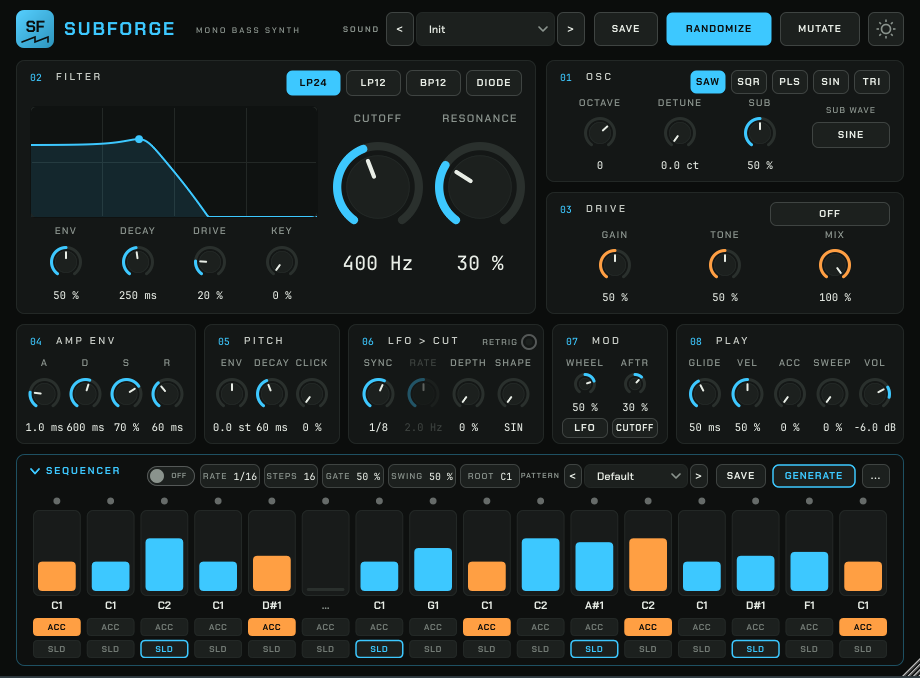
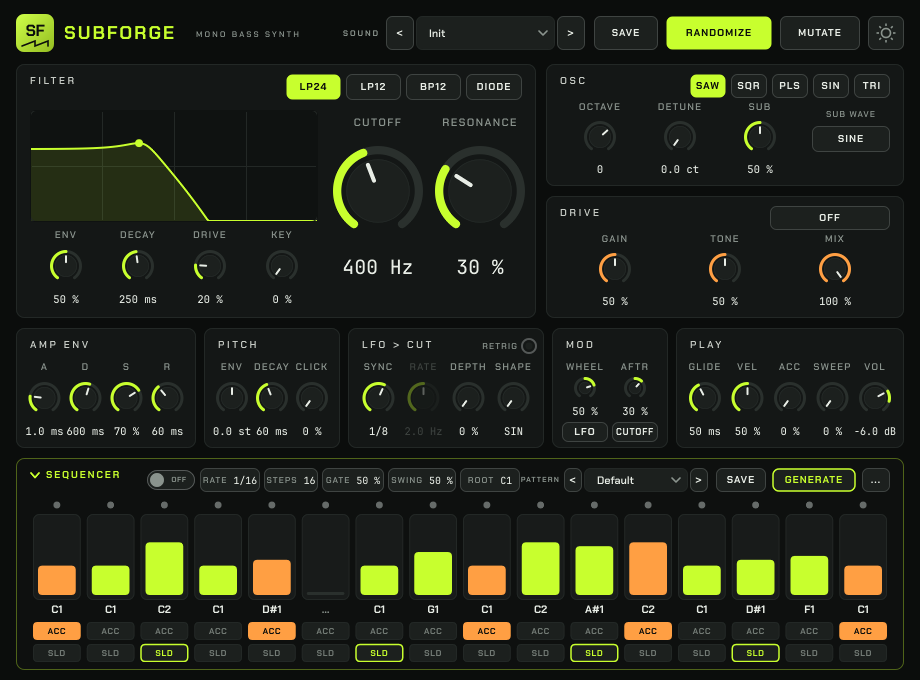
Update the README screenshot and add a tool to render it
The old screenshot had the section numbers and the blue accent. The new
one is rendered by SubForge_Screenshot (built only on request), which
draws the interface with the default sound, pattern and Lime accent
regardless of the user's settings, so it can be redone after UI changes.

diff --git a/tools/screenshot.cpp b/tools/screenshot.cpp
@@ -1,0 +1,40 @@
+// Copyright (C) 2026 Henrik Juhl. Part of SubForge, licensed under the GNU AGPLv3 (see LICENSE).
+// SPDX-License-Identifier: AGPL-3.0-only
+
+// Renders the interface with the default sound, pattern and accent colour to a PNG,
+// for the README: SubForge_Screenshot docs/images/screenshot.png [scale]
+// Uses its own look-and-feel, so the user's saved accent colour and UI size are ignored.
+
+#include "MainView.h"
+
+int main (int argc, char* argv[])
+{
+    if (argc < 2)
+    {
+        std::cerr << "usage: SubForge_Screenshot <output.png> [scale]\n";
+        return 1;
+    }
+
+    const juce::ScopedJuceInitialiser_GUI gui;
+    const std::unique_ptr<juce::AudioProcessor> plugin (createPluginFilter());
+    auto& processor = dynamic_cast<SubForgeProcessor&> (*plugin);
+    SubForgeLookAndFeel lookAndFeel;
+    const float scale = argc > 2 ? juce::String (argv[2]).getFloatValue() : 1.0f;
+
+    // sized by itself: with the sequencer steps unless they are hidden in the user's settings
+    auto view = std::make_unique<MainView> (processor, lookAndFeel, [] (float) {}, [scale] { return scale; }, [] {});
+
+    const auto image = view->createComponentSnapshot (view->getLocalBounds(), true, scale);
+    view.reset();
+
+    const juce::File file = juce::File::getCurrentWorkingDirectory().getChildFile (argv[1]);
+    file.deleteFile();
+    juce::FileOutputStream out (file);
+    if (! out.openedOk() || ! juce::PNGImageFormat().writeImageToStream (image, out))
+    {
+        std::cerr << "could not write " << file.getFullPathName() << "\n";
+        return 1;
+    }
+    std::cout << "wrote " << file.getFullPathName() << " (" << image.getWidth() << " x " << image.getHeight() << ")\n";
+    return 0;
+}

diff --git a/docs/RELEASE-CHECKLIST.md b/docs/RELEASE-CHECKLIST.md
@@ -11,7 +11,8 @@ SubForge udgives gratis som open source under **GNU AGPLv3** og vedligeholdes ik
 3. **Tredjepartsnoter:** Kør `python3 scripts/generate-third-party-notices.py`, hvis en afhængighed er ændret. CI fejler, hvis filen er forældet.
 4. **Commit og push** til `master`, og vent på, at CI ("Build") er grøn.
 5. **Tag og release:** `git tag vX.Y.Z` og `git push origin vX.Y.Z`. Opret en GitHub Release fra tagget med de to pakker fra CI-kørslen (`SubForge-linux-x86_64.tar.gz` og `SubForge-windows-x64.zip`) og ændringerne fra `CHANGELOG.md`. Navnene må ikke ændres, for README linker direkte til dem via `releases/latest/download/…`.
-6. **Test i Ardour:** Husk at scanne pluginnet igen (Window → Plugin Manager → Re-scan), ellers skjuler Ardour den nye build.
+6. **Skærmbillede:** Er udseendet ændret, så lav `docs/images/screenshot.png` igen: `cmake --build build --target SubForge_Screenshot` og `build/SubForge_Screenshot docs/images/screenshot.png`. Det bruger standardlyd, -mønster og Lime-temaet, uanset dine egne indstillinger.
+7. **Test i Ardour:** Husk at scanne pluginnet igen (Window → Plugin Manager → Re-scan), ellers skjuler Ardour den nye build.
 
 ## Skal altid overholdes
 
